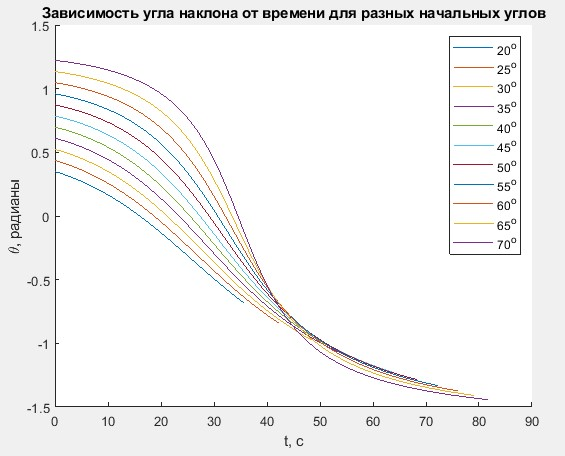
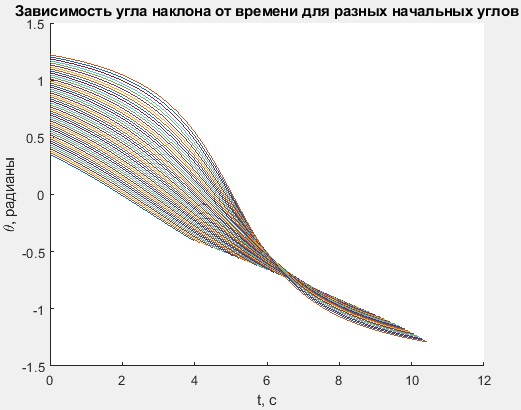
исправил опечатку (g = 0.81 --> g = 9.81), пересчитал и обновил графики

diff --git a/README.md b/README.md
@@ -82,6 +82,8 @@ $$x(0) = 0, y(0) = 0, \theta(0) = \theta_0, v(0) = v_0$$
 
 $$m = 45, C = 0.25, \rho = 1.29, S = 0.35, g = 9.81, v_0 = 60$$
 
+$$\theta_0\in [20;70]$$
+
 ### Получившиеся графики ###
 
 ![](docs/images/main_task/y_x.jpg)
@@ -89,4 +91,4 @@ $$m = 45, C = 0.25, \rho = 1.29, S = 0.35, g = 9.81, v_0 = 60$$
 ![](docs/images/main_task/L_angle.jpg)
 ![](docs/images/main_task/angle.jpg)
 
-Максимальная длина полета достигается при начальном угле 35 градусов.
+Максимальная длина полета достигается при начальном угле 43 градуса.
